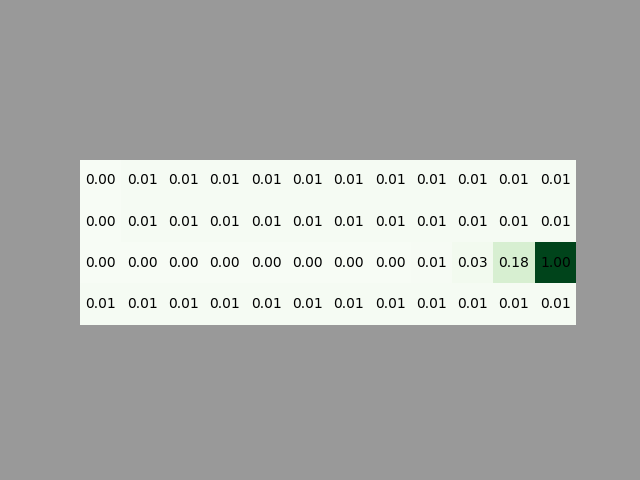
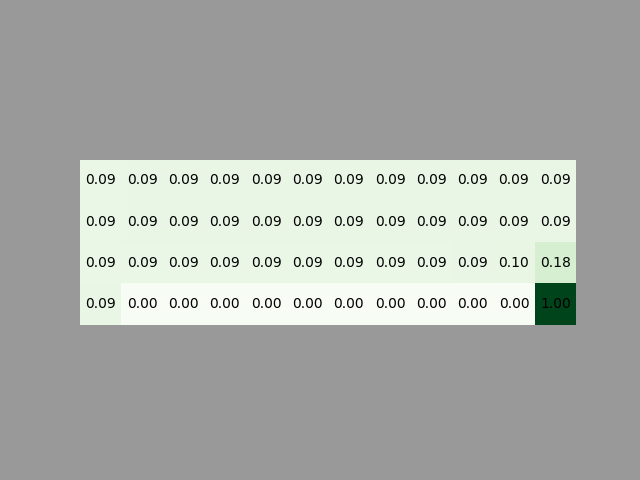
minor changes, tracking last change of utility matrix

diff --git a/model-free/td/td_0/td_0.py b/model-free/td/td_0/td_0.py
@@ -95,20 +95,20 @@ def get_return(utility_matrix, state, new_state, reward, alpha, gamma):
     return updated_utility
 
 def normalize_list(non_normalized_list):
-    non_normalized_list = non_normalized_list.copy()
+    normalized_list = non_normalized_list.copy()
 
 
     """
         Takes a 2d list and normalizes it's values.
     """
-    max_value = np.amax(non_normalized_list)
-    min_value = np.amin(non_normalized_list)
+    max_value = np.amax(normalized_list)
+    min_value = np.amin(normalized_list)
     range_value = max_value - min_value
 
-    for i in range(len(non_normalized_list)):
-        non_normalized_list[i] = non_normalized_list[i] if range_value == 0 else (non_normalized_list[i] - min_value) / range_value
+    for i in range(len(normalized_list)):
+        normalized_list[i] = non_normalized_list[i] if range_value == 0 else (normalized_list[i] - min_value) / range_value
 
-    return non_normalized_list
+    return normalized_list
 
 
 def plot_values(state_values, shape, epoch):
@@ -144,7 +144,8 @@ def main():
     ## step size
     alpha = 0.1
     ## initialize episodes
-    tot_epoch = 100000
+    tot_epoch = 1000000
+    # tot_epoch = 1000
     # make the environment
     env = gym.make('CliffWalking-v0', render_mode="None")
     state_len = env.nS
@@ -161,7 +162,9 @@ def main():
     optimal_policy = [2 for _ in range(state_len//4)] + [2 for _ in range(state_len//4)] + [1 for _ in range((state_len//4) - 1)] + [2] + [0 for _ in range((state_len//4) - 1)] + [2]
     optimal_policy = np.array(optimal_policy)
     print_policy(optimal_policy, (4, 12))
+    last_changed = 0
     for epoch in range(tot_epoch + 1):
+        old_utility_matrix = utility_matrix.copy()
         observation = simulate_explore_starts(env) 
         while True:
              # take action from policy
@@ -175,14 +178,21 @@ def main():
 
         # draw q-values
         if epoch % (tot_epoch / 10) == 0:
+            utility_matrix[37:47] = -10
+            utility_matrix[47] = 100
             values = normalize_list(utility_matrix)
             # print(utility_matrix)
             plot_values(values, (4, 12), epoch)
             print(f"******** Episode {epoch} completed ********")
 
+    
+        if((old_utility_matrix != utility_matrix).any()):
+            last_changed = epoch
+
     env.close()
     
-    print(f"Utility matrix after {tot_epoch} epochs: {utility_matrix.reshape(4, 12)}")
+    print(f"utility matrix last changed at epoch {last_changed}")
+    # utility matrix last changed at epoch 405719
     optimal_policy = find_optimal_policy(utility_matrix, env)
     play_game(optimal_policy)
         

diff --git a/model-free/td/td_trace/td_trace.py b/model-free/td/td_trace/td_trace.py
@@ -161,7 +161,7 @@ def main():
     ## decaying value
     lambda_ = 0.2
     ## initialize episodes
-    tot_epoch = 100000
+    tot_epoch = 1000000
     # make the environment
     env = gym.make('CliffWalking-v0', render_mode="None")
     state_len = env.nS
@@ -177,8 +177,9 @@ def main():
     trace_matrix = np.full(state_len, 1)
     
     optimal_policy = [2 for _ in range(state_len//4)] + [2 for _ in range(state_len//4)] + [1 for _ in range((state_len//4) - 1)] + [2] + [0 for _ in range((state_len//4) - 1)] + [2]
-
+    last_changed = 0
     for epoch in range(tot_epoch + 1):
+        old_utility_matrix = utility_matrix.copy()
         observation = simulate_explore_starts(env)
         # print(f"\tStarting episode {epoch} from {observation}")   
         while True:
@@ -199,14 +200,25 @@ def main():
 
         # draw q-values
         if epoch % (tot_epoch / 10) == 0:
+            utility_matrix[37:47] = -10
+            utility_matrix[47] = 100
             values = normalize_list(utility_matrix)
             # print(utility_matrix)
             plot_values(values, (4, 12), epoch)
             print(f"******** Episode {epoch} completed ********")
 
+        # rounded_normalized_old_values = np.round(old_utility_matrix, 4)
+        # rounded_normalized_changed_values = np.round(utility_matrix, 4)
+
+        if((old_utility_matrix != utility_matrix).any()):
+            last_changed = epoch
+
 
     optimal_policy = find_optimal_policy(utility_matrix, env)
+    print(f"utility matrix last changed at epoch {last_changed}")
     play_game(optimal_policy)
+
+    # utility matrix stopped changing at epoch 393694
 
     env.close()
 

diff --git a/model-free/td/td_0/td_0.md b/model-free/td/td_0/td_0.md
@@ -1,3 +1,5 @@
 Applying the TD algorithm means to move step by step considering only the state at t and the state at t+1. 
 
 That’s it, after each step we get the utility value and the reward at t+1 and we update the value at t. The TD(0) algorithm ignores the past states as shown by the shadow I added above those states.
+
+Convergence is at 405719

diff --git a/model-free/td/td_trace/td_trace.md b/model-free/td/td_trace/td_trace.md
@@ -12,3 +12,5 @@ In MC methods we need to wait the end of the episode in order to update the stat
 In TD(1), we do not need the end of the episode. We can update all the previous states online
 
 This ensures an early convergence and learning is faster.
+
+For numbers, running a 1,000,000 epochs shows that convergence for td_trace is at 393694.
